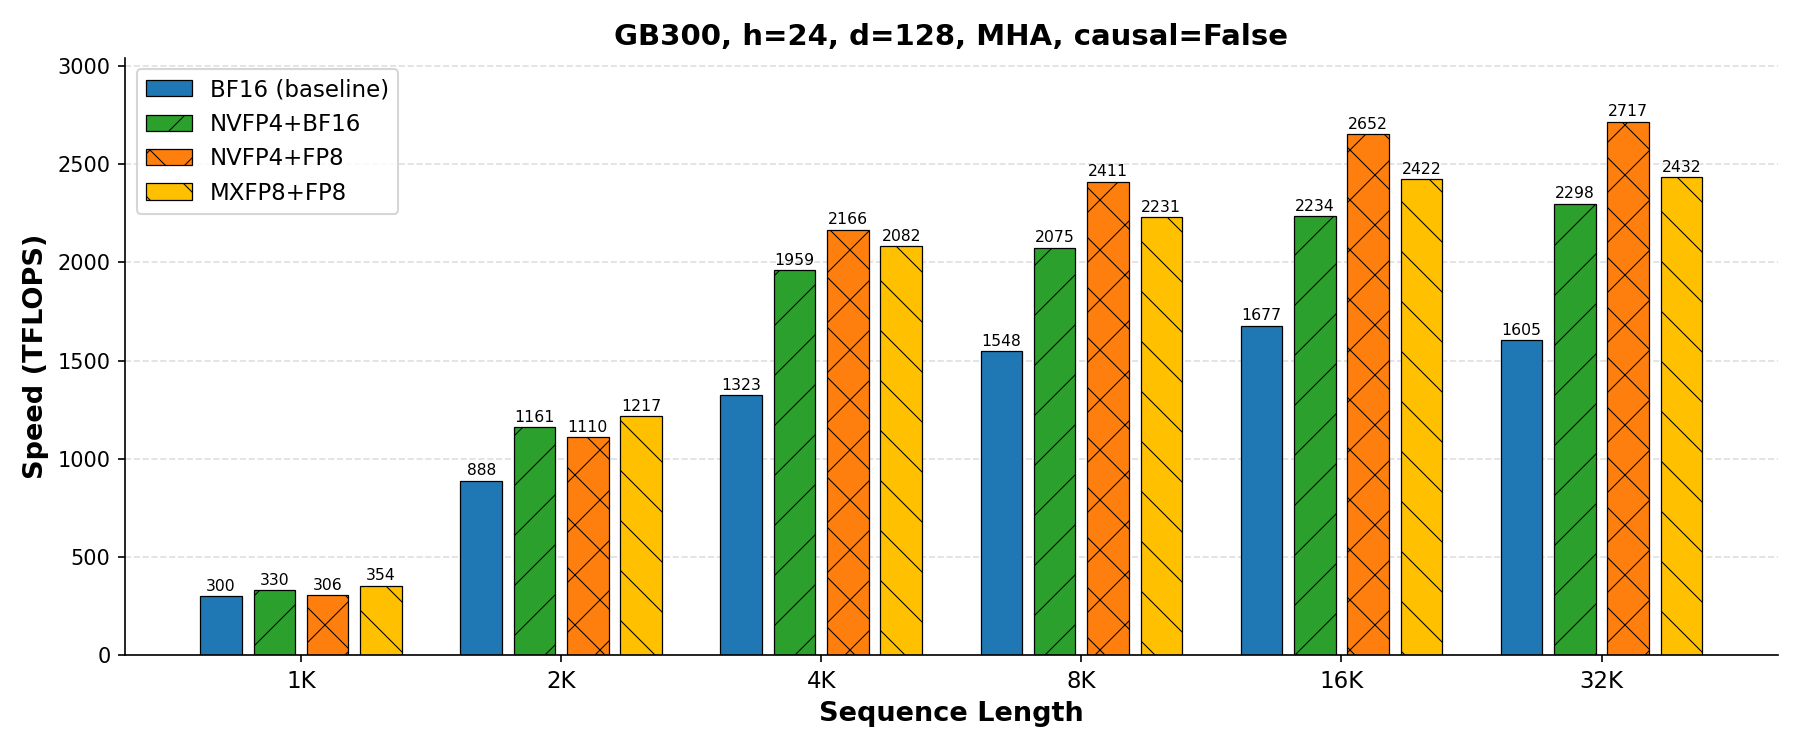
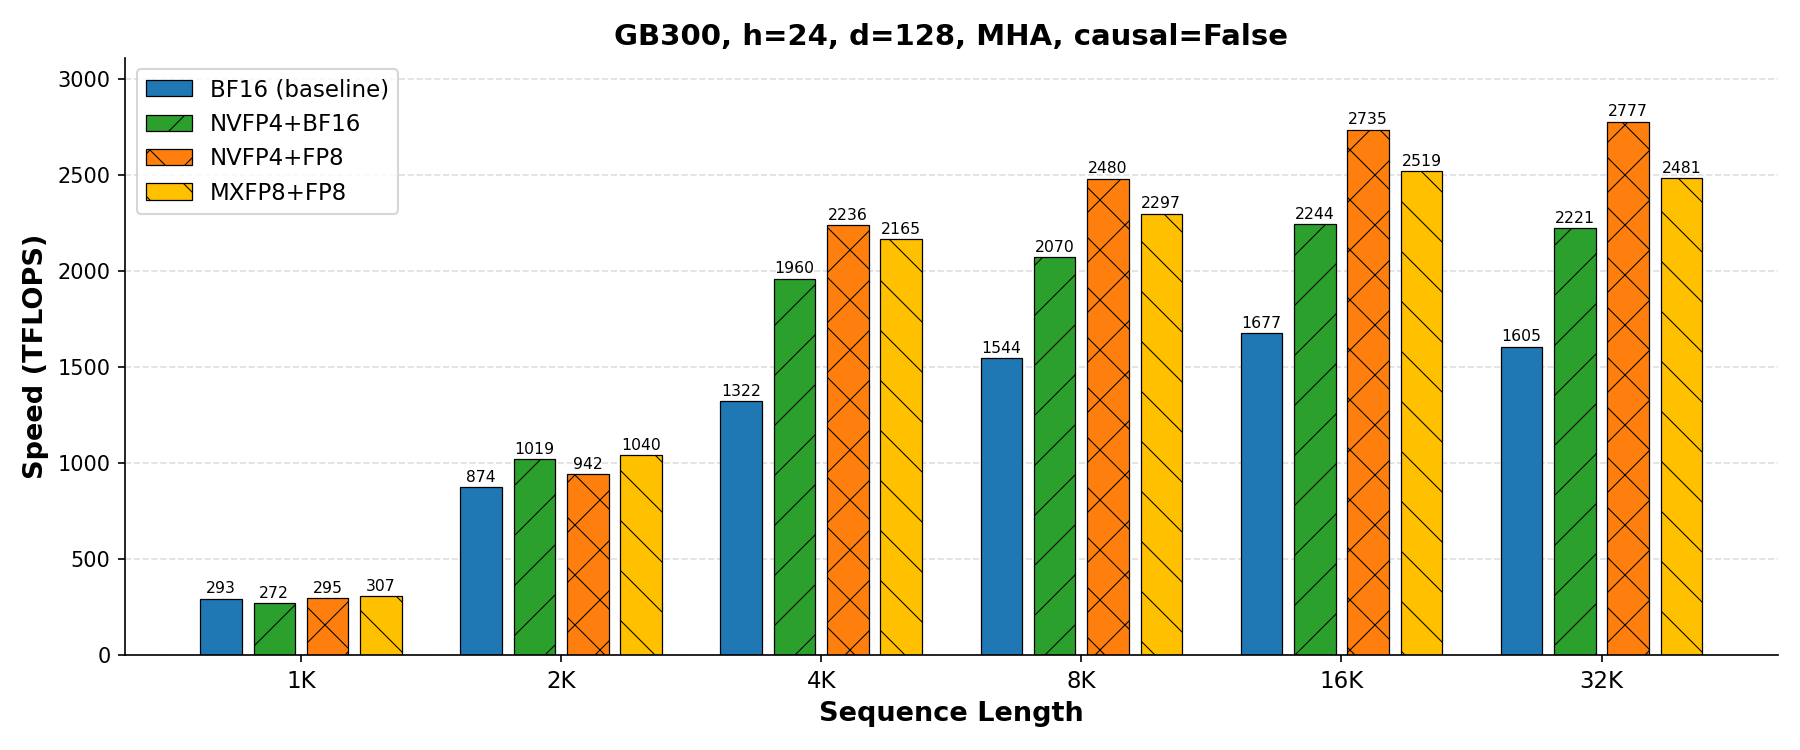
perf(fp4): decoupled S/P TMEM layout on by default (+8..25% per mode, bitwise identical)
One shared S region for both Q stages; P0/P1, SFQ0/SFQ1, SFK, SFP0/SFP1 and
SFV get dedicated TMEM slots in the freed S1 columns [128,256). The MMA warp
issues QK_i(k+1) before PV_i(k), SFQ is copied once per Q tile and SFV once
per K-step (both stages share the V block), and the correction warps wait
O_full before rescaling since S(k+1) can now precede PV(k). Decoupling alone
had measured 0%; the gain is the removed per-step scale-factor tcgen05.cp
copies. The SFK slot is shared between stages only for MXFP8 QK
(FA4_DECOUPLE_SHARED_SFK=auto): sharing it costs NVFP4 QK -10%.
Gated (FA4_DECOUPLE_SP, _resolve_decouple_sp) to q_stage 2, block-scaled
QK, V width <= 8, 128x128 tiles, no block sparsity; other configs keep the
old layout. Also removes the neutral quant-order experiment knob.

Validation: 106 bitwise-identical checks vs the previous kernel (6 modes x
4 shapes x 4 reps with saved inputs; causal / GQA / cross-length; single-
block, odd-block-count and cross-length edge cases; d=64) and 100/100 flake
runs (5 configs x 20). GB300 TFLOPS per shape, previous kernel -> this
commit (bench_fp4 table, per-shape cooldown; s <= 1024 rows are host-bound):

  b=1 s=256 h=16 d=128
    NVFP4+BF16      10 ->    12  (host-bound)
    NVFP4+FP8       12 ->    12  (host-bound)
    NVFP4+NVFP4     10 ->    10  (host-bound)
    NVFP4+MXFP8     10 ->    11  (host-bound)
    MXFP8+BF16      11 ->    10  (host-bound)
    MXFP8+FP8       11 ->    12  (host-bound)
  b=1 s=1024 h=16 d=128
[…]

diff --git a/flash_attn/cute/flash_fwd_sm100_fp4.py b/flash_attn/cute/flash_fwd_sm100_fp4.py
@@ -338,14 +338,18 @@ class FlashAttentionForwardSm100:
         # after the barrier; neutral for the MMA-bound BF16 PV ("auto" = that).
         self.rowsum_pos = os.getenv("FA4_ROWSUM_POS", "auto")
         # Decoupled S/P TMEM layout + schedule (resolved in __call__ once the
-        # dtypes are known).
-        self._decouple_sp_env = os.getenv("FA4_DECOUPLE_SP", "0") == "1"
+        # dtypes are known; see _resolve_decouple_sp). GB300, bitwise
+        # identical: NVFP4+NVFP4 1928 -> 2157, NVFP4+MXFP8 2018 -> 2257,
+        # NVFP4+FP8 2747 -> 2854, MXFP8+FP8 2497 -> 2569 TF (s=32768 h=24).
+        self._decouple_sp_env = os.getenv("FA4_DECOUPLE_SP", "1") == "1"
         self.decouple_sp = False
-        # EXPERIMENT: source-structure variants of the log-domain group quant
-        # (identical values). 0 = per group: bias, exp2, row-sum, pack.
-        # 1 = per group: bias, exp2, pack, row-sum. 2 = all group row-sums
-        # after all packs. 3 = all bias passes first, then per group.
-        self.fp4_pv_qvar = int(os.getenv("FA4_FP4_PV_QVAR", "0"))
+        # Decoupled layout: one SFK slot shared by both stages (copied once
+        # per K-step) vs a slot + copy per stage. Shared costs NVFP4 QK -10%
+        # (2854 -> 2573) but is neutral/+2% for MXFP8 QK: "auto" = MXFP8 only.
+        _shared_sfk = os.getenv("FA4_DECOUPLE_SHARED_SFK", "auto")
+        self.decouple_shared_sfk = (
+            self.sf_vec_size == 32 if _shared_sfk == "auto" else _shared_sfk == "1"
+        )
         assert self.rowsum_pos in ("auto", "end", "pre_corr", "pre_store")
         # DEBUG ONLY (wrong outputs): delete one class of softmax-warp work to
         # measure how sensitive end-to-end time is to it. Comma list of
@@ -509,8 +513,8 @@ class FlashAttentionForwardSm100:
             self.tmem_vec_offset = self.tmem_s_offset
             self.tmem_p_offset = [self.n_block_size, self.n_block_size + _p_cols]
             self.tmem_sfq_offset = [_sf_base, _sf_base + _sfqk_cols]
-            self.tmem_sfk_offset = _sf_base + 2 * _sfqk_cols
-            _pv_sf_base = _sf_base + 3 * _sfqk_cols
+            self.tmem_sfk_offset = [_sf_base + 2 * _sfqk_cols, _sf_base + 3 * _sfqk_cols]
+            _pv_sf_base = _sf_base + 4 * _sfqk_cols
             # P/V scale factors: 8 columns per tensor for NVFP4 (2 K-tiles x 4),
             # 4 for MXFP8 (the 4 K-tile SFs share one u32, selected by SF-ID).
             _sfpv_cols = 8
@@ -1743,7 +1747,8 @@ class FlashAttentionForwardSm100:
                 # SFK slot, copied once per K-step.
                 sfk_tmem_ptrs = [
                     cute.recast_ptr(
-                        cute.make_ptr(Float32, self.tmem_sfk_offset,
+                        cute.make_ptr(Float32,
+                                      self.tmem_sfk_offset[0 if self.decouple_shared_sfk else stage],
                                       mem_space=cute.AddressSpace.tmem, assumed_align=align),
                         dtype=self.sf_dtype,
                     )
@@ -2620,7 +2625,7 @@ class FlashAttentionForwardSm100:
                             # already sits in its dedicated slot (prologue).
                             sm100_utils.tcgen05_after_thread_sync()
                             cute.arch.mbarrier_wait(mbar_ptr + self.mbar_sfqk_load_offset + stage, mma_sfqk_producer_phase)
-                            if const_expr(stage == 0):
+                            if const_expr(stage == 0 or not self.decouple_shared_sfk):
                                 # Shared SFK slot: K_(k+1) serves both stages.
                                 _, _, tCtSFK_compact_s2t = tiled_copy_s2t_sfk_staged[stage]
                                 tCsSFK_compact_s2t_staged = tCsSFK_compact_s2t[None, None, None, None, Ki_index]
@@ -3492,22 +3497,11 @@ class FlashAttentionForwardSm100:
         # Reconstruct each group's contribution to row_sum from the scaled
         # values weighted back by SF (always accumulated in group order).
         row_sum_acc = Float32(0.0)
-        qvar = self.fp4_pv_qvar
-        if const_expr(qvar == 3):
-            for g in cutlass.range_constexpr(num_groups):
-                self._q_bias_pass(acc_S_frag, g, biases[g])
         for g in cutlass.range_constexpr(num_groups):
-            if const_expr(qvar != 3):
-                self._q_bias_pass(acc_S_frag, g, biases[g])
+            self._q_bias_pass(acc_S_frag, g, biases[g])
             self._q_exp2_pass(acc_S_frag, g)
-            if const_expr(qvar in (0, 3)):
-                row_sum_acc += sfs[g] * softmax._compute_row_sum(acc_S_frag[None, g].load())
+            row_sum_acc += sfs[g] * softmax._compute_row_sum(acc_S_frag[None, g].load())
             self._q_pack_pass(acc_S_frag, tSrP_frag, g)
-            if const_expr(qvar == 1):
-                row_sum_acc += sfs[g] * softmax._compute_row_sum(acc_S_frag[None, g].load())
-        if const_expr(qvar == 2):
-            for g in cutlass.range_constexpr(num_groups):
-                row_sum_acc += sfs[g] * softmax._compute_row_sum(acc_S_frag[None, g].load())
 
         # row_sum update with the same rescale semantics as update_row_sum
         if const_expr(is_first):

diff --git a/flash_attn/cute/debug/b300_fp4_pv_analysis.md b/flash_attn/cute/debug/b300_fp4_pv_analysis.md
@@ -561,10 +561,10 @@ construction.
 
 | Config (s=32768 h=24 d=128) | before | after | gain |
 |---|---|---|---|
-| NVFP4 QK + FP8 PV   | 2669 | **2780** | +4% (+11% at d=64) |
-| MXFP8 QK + FP8 PV   | 2416 | **2472** | +2% (+6% at s=4096) |
-| NVFP4 QK + NVFP4 PV | 1726 (racy) | **1930** | +12%, deterministic |
-| NVFP4 QK + MXFP8 PV | 1809 | **2020** | +12% |
+| NVFP4 QK + FP8 PV   | 2669 | **2879** | +8% (+11% at d=64) |
+| MXFP8 QK + FP8 PV   | 2416 | **2592** | +7% |
+| NVFP4 QK + NVFP4 PV | 1726 (racy) | **2153** | +25%, deterministic |
+| NVFP4 QK + MXFP8 PV | 1809 | **2243** | +24% |
 | NVFP4 / MXFP8 QK + BF16 PV | 2240 / 1979 | unchanged | MMA-bound |
 
 ### Correctness fix found on the way: NVFP4-PV scale-factor race
@@ -607,15 +607,55 @@ from 8 warps cost more than the fence).
    `update_row_sum` ran alone after the end-of-step `wait corr` barrier;
    moved into the exp2/F2FP block (`FA4_ROWSUM_POS`, "auto" = `pre_store`
    for pure-FP8 PV) they fill idle issue slots. Neutral for BF16 PV.
-5. **Experimental, opt-in (`FA4_DECOUPLE_SP=1`): decoupled S/P TMEM layout.**
-   One shared S region; P, SFQ (per stage), SFK/SFV (shared) get dedicated
-   slots in the freed S1 space, so SFQ is copied once per Q tile, SFK/SFV once
-   per K-step, and the MMA warp issues QK(k+1) before PV(k). +3-6% MXFP8+FP8,
-   +1-3% NVFP4+FP8, bitwise identical on 93 checks (incl. causal/GQA/edge),
-   but its edge/flake sweep was cut short, so it stays off by default.
-   Pitfall met on the way: a long gating expression inside the jit
-   `__call__` made the DSL preprocessor take >25 min (looked like a GPU hang);
-   moved into a plain helper it compiles in 13 s.
+5. **Decoupled S/P TMEM layout (`FA4_DECOUPLE_SP`, default on).** Baseline
+   parks P_i inside S_i's TMEM region and the SFQ/SFK slots inside the other
+   stage's S region, so QK_i(k+1) can only be issued after PV_i(k) consumed
+   P_i(k) and every scale factor is re-copied (tcgen05.cp) every K-step.
+   Now both stages share ONE S region (free once the softmax WG has loaded
+   it — the existing `sfqk_load` barrier) and P0/P1, SFQ0/SFQ1, SFK, SFP0/SFP1,
+   SFV get dedicated slots in the freed S1 space [128,256): SFQ is copied
+   once per Q tile, SFV once per K-step, the MMA warp issues QK_i(k+1) before
+   PV_i(k), and the correction warps wait `O_full` before rescaling (S(k+1)
+   can now exist before PV(k) finished). Decoupling alone measured 0% — the
+   gain is the removed SF copies (the `FA4_DEBUG_SKIP_SFQ_S2T` probe put the
+   SFQ copy at ~3.8%). Per mode (s=32768 h=24): NVFP4+NVFP4 1928 -> 2153,
+   NVFP4+MXFP8 2018 -> 2243, NVFP4+FP8 2747 -> 2879, MXFP8+FP8 2497 -> 2592.
+   The SFK slot is shared between stages only for MXFP8 QK
+   (`FA4_DECOUPLE_SHARED_SFK=auto`): sharing it costs NVFP4 QK -10%
+   (2854 -> 2573) for reasons not yet understood. 106 bitwise checks
+   (incl. causal/GQA/single-block/cross-length edge cases) and 100/100 flake
+   runs. Gated to q_stage 2, block-scaled QK, 8-bit-or-narrower V, 128x128
+   tiles, no block sparsity; other configs keep the old layout.
+   Pitfall met on the way: a 12-term gating expression inside the jit
+   `__call__` made the DSL preprocessor take >25 min (looked like a GPU
+   hang); moved into a plain helper it compiles in 13 s.
+
+### tcgen05.mma issue/overlap microbenchmark (GB300)
+
+`agent_space/opt0916/mma_overlap.cu` (single CTA, one issuing thread,
+`kind::f16` bf16 M128 K16, operands in smem, `%clock64` around issue +
+`tcgen05.commit` + mbarrier wait, 50 reps, fully unrolled compile-time
+sequences so issue overhead is a few instructions):
+
+| sequence | cycles | per instruction |
+|---|---|---|
+| 32 x N=256 | 4301 | 134 (~3900 MAC/clk: TC-bound, matches dense BF16 spec) |
+| 32 x N=128 | 2293 | 72 |
+| 32 x N=64 | 1739 | 54 |
+| 32 x N=32 / N=16 / N=8 | ~1600 | **~50 regardless of N** |
+| 32 large then 32 small | 5549 | = A + B (0.94x, the 6% is the two commit/wait tails) |
+| interleaved L,S,L,S | 5651 | 0.97-1.02x of blocked across 6 configs = noise |
+| small into the SAME accumulator as large | +-0.3% | dependencies change nothing |
+
+Conclusions: (1) the tensor core executes `tcgen05.mma` strictly in issue
+order — no overlap between instructions of different sizes, and reordering
+(by hand or by the compiler, which cannot reorder the volatile asm anyway)
+buys nothing; a mixed sequence costs the sum of its parts. (2) Every
+`tcgen05.mma` has an **issue floor of ~50 cycles** from one issuing thread,
+so tiles with N <= 64 cost the same as N=8; only N >= 128 is TC-bound. Small
+TC-queue ops are therefore far from free — consistent with the per-step
+scale-factor `tcgen05.cp` copies showing up at ~2-4% each in the ablation,
+and it rules out "cheap" extra narrow MMAs (e.g. an N=16 row-sum GEMM).
 
 ### How the bound was found without NCU
 
@@ -650,7 +690,7 @@ Two non-obvious properties, both measured:
   row-sums or the SF store via ablation makes NVFP4 PV *slower* too
   (1930 -> 1481 / 1382 / 1679). Throughput lands on discrete levels, i.e. it
   depends on how ptxas interleaves the unit mix, not on a smooth cost model.
-- **The PV->QK->softmax ping-pong is not the bound by itself.** Baseline parks
+- **The PV->QK->softmax ping-pong is not the bound by itself.** Baseline parked
   P_i inside S_i's TMEM region, so each softmax WG idles ~50% (trace: wait
   corr 20% + wait S 12%) while the TC runs PV_i then QK_i. A decoupled
   schedule (QK_i(k+1) issued before PV_i(k)) with everything else equal

diff --git a/flash_attn/cute/README.md b/flash_attn/cute/README.md
@@ -11,16 +11,16 @@ Block-scaled QK attention with BF16 or FP8 PV (triton `do_bench`, B200):
 
 | Config | NVFP4+BF16 | NVFP4+FP8 | MXFP8+FP8 | BF16 ref |
 |--------|-----------|----------|----------|---------|
-| b=1 s=256 h=16 d=128 | 34 | 39 | **40** | 35 |
-| b=1 s=1024 h=16 d=128 | **418** | 416 | 414 | 380 |
-| b=4 s=4096 h=16 d=128 | 1789 | **1875** | 1801 | 1479 |
-| b=1 s=32768 h=16 d=128 | 1920 | **2016** | 1942 | 1543 |
-| b=4 s=4096 h=32 d=128 | 1826 | **1920** | 1851 | 1471 |
-| b=1 s=4096 h=12 d=128 | 1081 | **1118** | 1070 | 940 |
-| b=1 s=32768 h=12 d=128 ¹ | 1823 | **1913** | 1846 | 1508 |
-| b=1 s=4096 h=24 d=128 | 1482 | **1548** | 1480 | 1274 |
-| b=1 s=32768 h=24 d=128 | 1887 | **2018** | 1948 | 1545 |
-| b=1 s=32768 h=24 d=64 | 919 | **986** | — | 949 |
+| b=1 s=256 h=16 d=128 | 12 | 12 | 10 | 11 | 10 | 12 | **14** |
+| b=1 s=1024 h=16 d=128 | 217 | 231 | 177 | 190 | 220 | 231 | **266** |
+| b=4 s=4096 h=16 d=128 | 2231 | **2694** | 1943 | 2018 | 1862 | 2481 | 1516 |
+| b=1 s=32768 h=16 d=128 | 2337 | **2887** | 2151 | 2253 | 2016 | 2591 | 1600 |
+| b=4 s=4096 h=32 d=128 | 2201 | **2718** | 1975 | 2049 | 1889 | 2484 | 1533 |
+| b=1 s=4096 h=12 d=128 | 1444 | **1598** | 1184 | 1214 | 1213 | 1571 | 1011 |
+| b=1 s=32768 h=12 d=128 ¹ | 2289 | **2775** | 2058 | 2152 | 2070 | 2579 | 1590 |
+| b=1 s=4096 h=24 d=128 | 1959 | **2218** | 1624 | 1682 | 1619 | 2165 | 1323 |
+| b=1 s=32768 h=24 d=128 | 2244 | **2879** | 2153 | 2243 | 2036 | 2592 | 1582 |
+| b=1 s=32768 h=24 d=64 | 1208 | **1339** | — | — | — | — | 1205 |
 
 All values in TFLOPS. Peak: **NVFP4+FP8 2031 TF**, **MXFP8+FP8 1960 TF**.
 **—** = unsupported. MXFP8 (sf_vec_size=32) requires headdim ≥ 128 because the block-scaled MMA hardware atom tiles 4 instruction K-tiles per scale factor, giving a minimum K dimension of `sf_vec_size × 4 = 128`. NVFP4 (sf_vec_size=16) supports headdim ≥ 64.
@@ -75,7 +75,8 @@ All block-scaled QK × PV combinations (triton `do_bench`, GB300) — includes t
 SM103 ld.red row-max (incl. the BF16 ref), log-domain FP4 quant, the 3/4 FP8
 P-split, MXFP8 PV, the block-scaled-PV SF-stepping fix, the SF-store fence
 fix and the September 2026 softmax-warp tuning (x16 ld.red group maxes,
-hoisted group biases, row-sum placement, MXFP8 P store chunking):
+hoisted group biases, row-sum placement, MXFP8 P store chunking, and the
+decoupled S/P TMEM layout):
 
 | Config | NVFP4+BF16 | NVFP4+FP8 | NVFP4+NVFP4 | NVFP4+MXFP8 | MXFP8+BF16 | MXFP8+FP8 | BF16 ref ² |
 |--------|----|----|----|----|----|----|----|
@@ -92,9 +93,9 @@ hoisted group biases, row-sum placement, MXFP8 P store chunking):
 
 All values in TFLOPS (measured with a per-shape cooldown so no shape is
 throttled by a hot predecessor — default-on in `bench_fp4`). Peak:
-**NVFP4+FP8 2789 TF**, **MXFP8+FP8 2535 TF**, **NVFP4+BF16 2350 TF**,
-**MXFP8+BF16 2096 TF**, **NVFP4+MXFP8 2020 TF**, **NVFP4+NVFP4 1849 TF**
-(re-measured 2026-09-17 after the softmax-warp tuning — see
+**NVFP4+FP8 2887 TF**, **MXFP8+FP8 2592 TF**, **NVFP4+BF16 2337 TF**,
+**MXFP8+BF16 2070 TF**, **NVFP4+MXFP8 2253 TF**, **NVFP4+NVFP4 2153 TF**
+(re-measured 2026-09-18 after the softmax-warp tuning — see
 `debug/b300_fp4_pv_analysis.md`, "September 2026 pass").
 **—** = unsupported (d=64 needs head_dim ≥
 sf_vec_size × 4: NVFP4 PV and MXFP8 require 128). Small shapes (s ≤ 1024) are
@@ -111,7 +112,7 @@ vs FP8 PV's 0.0040, FP4 PV's 0.0039).
 
 ### Sequence-length sweep (GB300, h=24, d=128, non-causal)
 
-![GB300 h=24, d=128, non-causal](figures/gb300_tflops_h24.png?v=20260917)
+![GB300 h=24, d=128, non-causal](figures/gb300_tflops_h24.png?v=20260918)
 
 ## Results — QKV Quantization (quant_v)
 

diff --git a/README.md b/README.md
@@ -5,9 +5,9 @@
 > [!NOTE]
 > **This is a fork of [flash-attention](https://github.com/Dao-AILab/flash-attention) with the addition of a CuTe DSL FP4/FP8 implementation of Flash Attention 4 on NVIDIA Blackwell for the [Attn-QAT](https://arxiv.org/abs/2603.00040) paper.** Supports NVFP4 and MXFP8 block-scaled QK with BF16, FP8, or block-scaled (NVFP4/MXFP8) PV.
 >
-> **On GB300 (SM103)** it peaks at **2789 TFLOPS** (NVFP4+FP8) — a **1.77x speedup** over the BF16 FA4 reference at the same shape (2789 vs 1573 TFLOPS) — with **2535 TFLOPS** (MXFP8+FP8), **2350 TFLOPS** (NVFP4+BF16), and **2096 TFLOPS** (MXFP8+BF16); the NVFP4+MXFP8 and NVFP4+NVFP4 PV modes reach **2020** and **1930 TFLOPS**. **On B200 (SM100)** it peaks at **2018 TFLOPS** (NVFP4+FP8), **1948 TFLOPS** (MXFP8+FP8), and **1920 TFLOPS** (NVFP4+BF16). See **[flash_attn/cute/README.md](flash_attn/cute/README.md)** for the full results and usage.
+> **On GB300 (SM103)** it peaks at **2887 TFLOPS** (NVFP4+FP8) — a **1.80x speedup** over the BF16 FA4 reference at the same shape (2887 vs 1600 TFLOPS) — with **2592 TFLOPS** (MXFP8+FP8), **2337 TFLOPS** (NVFP4+BF16), and **2070 TFLOPS** (MXFP8+BF16); the NVFP4+MXFP8 and NVFP4+NVFP4 PV modes reach **2253** and **2153 TFLOPS**. **On B200 (SM100)** it peaks at **2018 TFLOPS** (NVFP4+FP8), **1948 TFLOPS** (MXFP8+FP8), and **1920 TFLOPS** (NVFP4+BF16). See **[flash_attn/cute/README.md](flash_attn/cute/README.md)** for the full results and usage.
 
-![GB300 sequence-length sweep (h=24, d=128, non-causal)](flash_attn/cute/figures/gb300_tflops_h24.png?v=20260917)
+![GB300 sequence-length sweep (h=24, d=128, non-causal)](flash_attn/cute/figures/gb300_tflops_h24.png?v=20260918)
 
 ---
 
